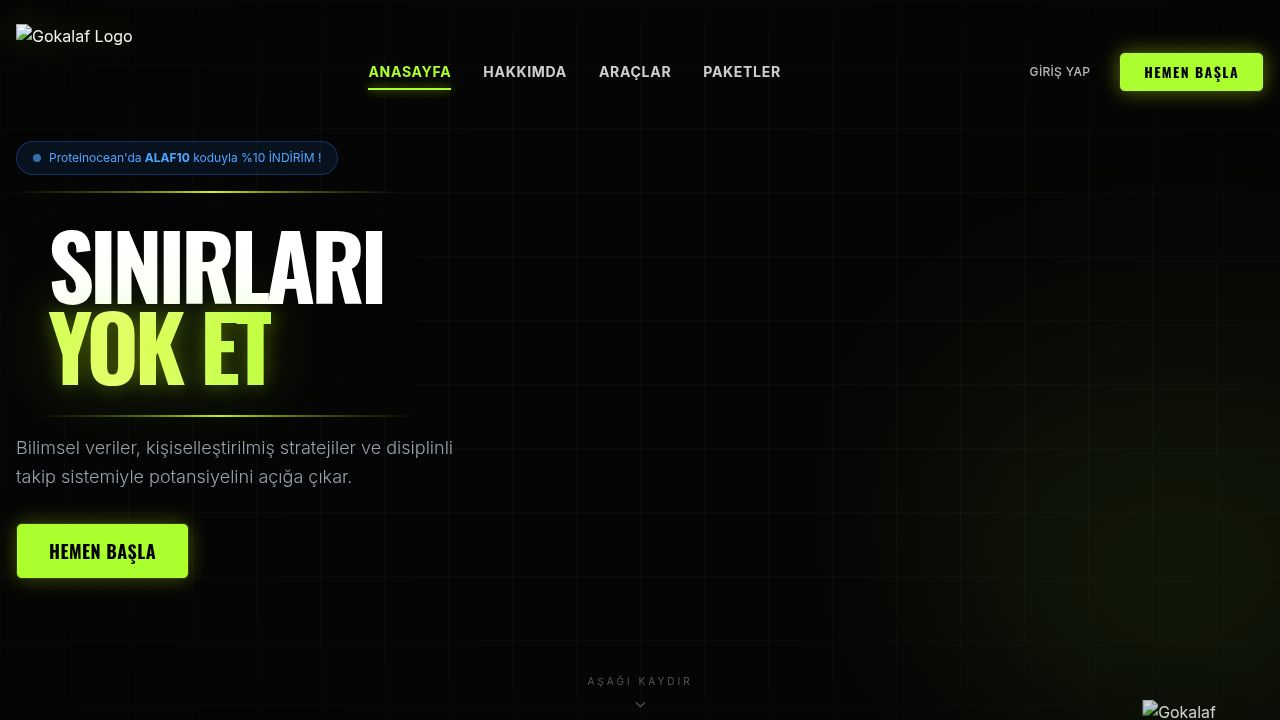
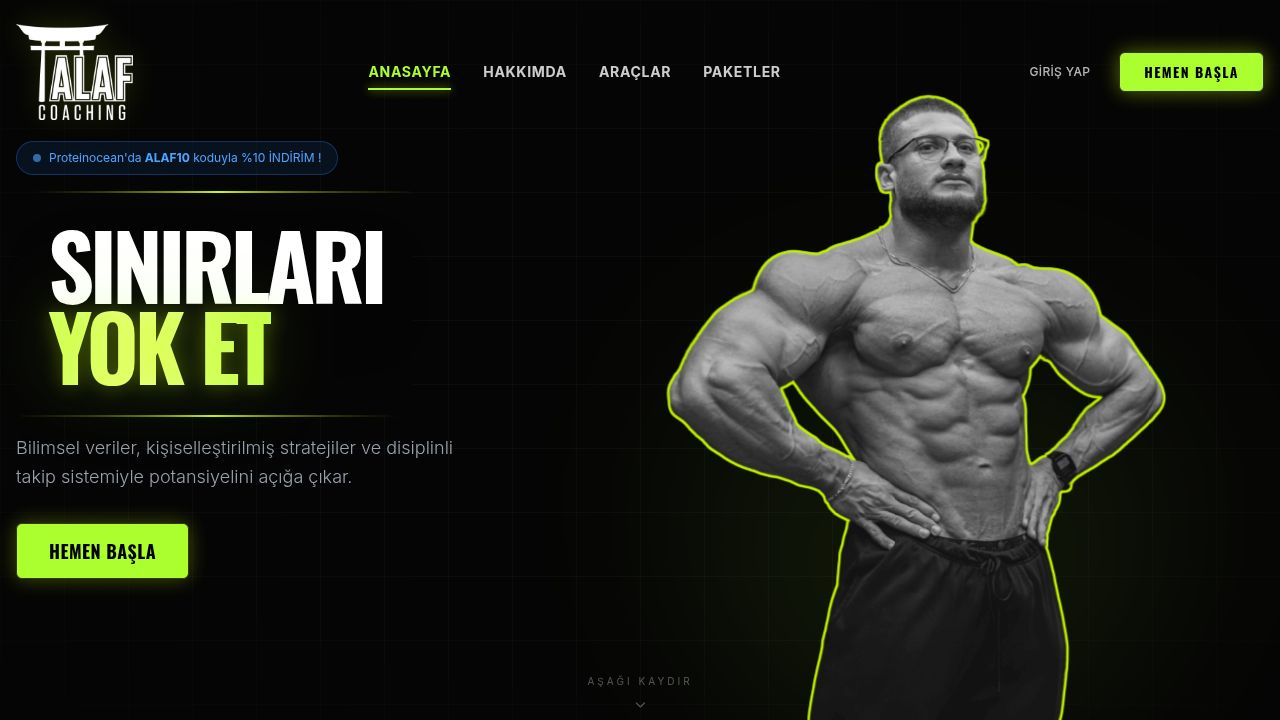
Update hero image and styling on the landing page
Replace hero image and adjust styling to add a solid border effect around the image using multiple drop-shadow filters in Home.tsx.

Replit-Commit-Author: Agent
Replit-Commit-Session-Id: 70232118-4650-4429-baf5-bed64b50026f
Replit-Commit-Checkpoint-Type: full_checkpoint
Replit-Commit-Event-Id: 432767ea-976d-4a55-8b41-77fb196cd2a5
Replit-Commit-Screenshot-Url: https://storage.googleapis.com/screenshot-production-us-central1/93885ed1-920c-4875-be5c-f89a21265b76/70232118-4650-4429-baf5-bed64b50026f/HbFeszi

Changed region(s): [[0.5, 0.1222, 0.9062, 1.0], [0.0, 0.0306, 0.125, 0.1833], [0.875, 0.9778, 0.9688, 1.0]]

diff --git a/client/src/pages/Home.tsx b/client/src/pages/Home.tsx
@@ -145,7 +145,7 @@ export default function Home() {
              transition={{ duration: 0.8, delay: 0.2 }}
              src="/gokalaf.png" 
              alt="Gokalaf" 
-             className="relative z-10 h-[90vh] sm:h-[92vh] md:h-[95vh] lg:h-auto lg:max-h-[100vh] w-auto max-w-[100vw] sm:max-w-none object-contain object-bottom drop-shadow-[0_0_25px_rgba(204,255,0,0.4)] [filter:drop-shadow(0_0_8px_rgba(204,255,0,0.6))_drop-shadow(0_0_20px_rgba(204,255,0,0.3))]"
+             className="relative z-10 h-[90vh] sm:h-[92vh] md:h-[95vh] lg:h-auto lg:max-h-[100vh] w-auto max-w-[100vw] sm:max-w-none object-contain object-bottom [filter:drop-shadow(2px_0_0_#ccff00)_drop-shadow(-2px_0_0_#ccff00)_drop-shadow(0_2px_0_#ccff00)_drop-shadow(0_-2px_0_#ccff00)]"
            />
         </div>
 
